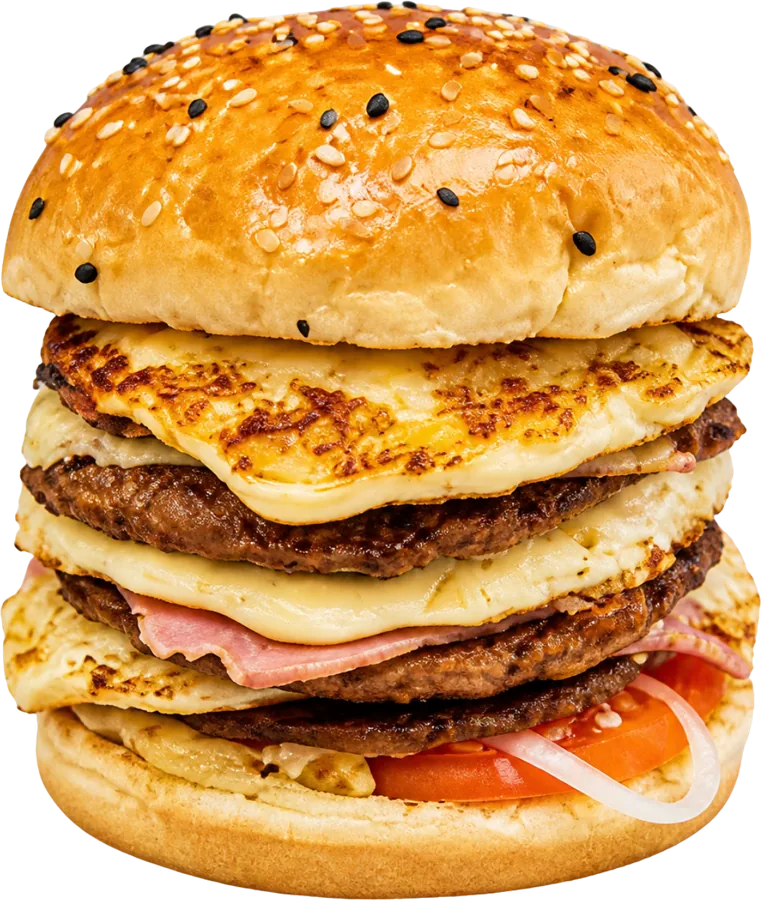
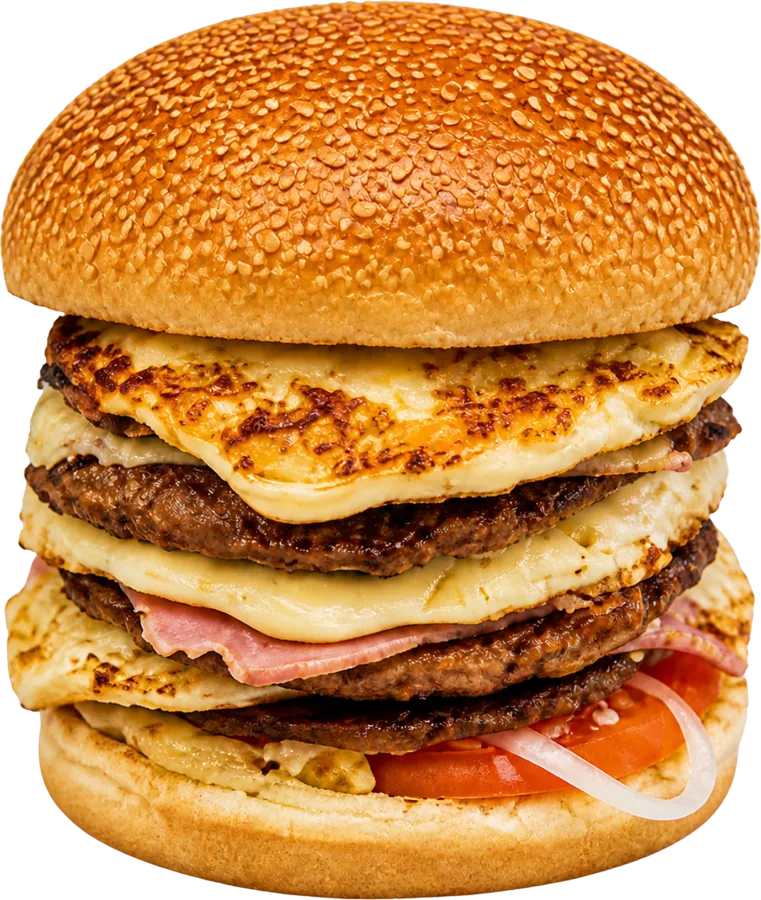
Caixa Top em "Como pedir" e X-Montanha com o pão novo de gergelim
- "Como pedir": a foto antiga do combo (pão que a Bel não usa mais) dá
  lugar à Caixa Top sem fundo, flutuando com sombra e brilho quente, com
  o adesivo "Canal oficial da Bel". Sai do carrossel, que volta a ter 5
  fotos. Arquivos lanche-4 removidos.
- X-Montanha refeito com o pão novo, coberto de gergelim, como pedido no
  feedback da cliente.

Claude-Session: https://claude.ai/code/session_01JFe72xvUDKBtHamWgCjFaN

diff --git a/src/components/OrderMain.tsx b/src/components/OrderMain.tsx
@@ -12,27 +12,28 @@ export function OrderMain() {
     <section id="pedir" aria-labelledby="pedir-titulo" data-spotlight className="py-16 sm:py-24">
       <div className="mx-auto grid max-w-6xl gap-12 px-4 lg:grid-cols-12 lg:items-center lg:gap-16">
         <div data-reveal className="relative mx-auto w-full max-w-sm lg:col-span-5 lg:max-w-none">
-          <div className="aspect-square overflow-hidden rounded-md">
-            <picture>
-              <source
-                srcSet="/images/lanche-4-400.webp 400w, /images/lanche-4-600.webp 600w, /images/lanche-4.webp 800w"
-                sizes="(min-width: 1024px) 440px, (min-width: 640px) 384px, calc(100vw - 32px)"
-                type="image/webp"
-              />
-              <img
-                src="/images/lanche-4.jpg"
-                srcSet="/images/lanche-4-400.jpg 400w, /images/lanche-4-600.jpg 600w, /images/lanche-4.jpg 800w"
-                sizes="(min-width: 1024px) 440px, (min-width: 640px) 384px, calc(100vw - 32px)"
-                alt="Combo na caixa: batata com cheddar e bacon, anéis de cebola e três lanches"
-                width={800}
-                height={800}
-                loading="lazy"
-                decoding="async"
-                className="size-full object-cover"
-              />
-            </picture>
-          </div>
-          <p className="absolute -bottom-4 left-4 rounded-md bg-mostarda px-3 pb-1 pt-1.5 font-display text-lg uppercase tracking-wider text-carvao">
+          {/* Caixa Top sem fundo, flutuando como os lanches do topo */}
+          <div
+            aria-hidden="true"
+            className="absolute inset-[8%] rounded-full bg-[radial-gradient(closest-side,rgb(244_183_64/0.22),transparent)]"
+          />
+          <picture>
+            <source
+              srcSet="/images/caixa-top-480.webp 480w, /images/caixa-top-640.webp 640w, /images/caixa-top.webp 900w"
+              sizes="(min-width: 1024px) 440px, (min-width: 640px) 384px, calc(100vw - 32px)"
+              type="image/webp"
+            />
+            <img
+              src="/images/caixa-top.png"
+              alt="Caixa Top: batata com cheddar e bacon, nuggets, molho e três hambúrgueres"
+              width={900}
+              height={484}
+              loading="lazy"
+              decoding="async"
+              className="relative h-auto w-full drop-shadow-[0_24px_30px_rgb(0_0_0/0.55)]"
+            />
+          </picture>
+          <p className="absolute -bottom-6 left-4 rounded-md bg-mostarda px-3 pb-1 pt-1.5 font-display text-lg uppercase tracking-wider text-carvao">
             Canal oficial da Bel
           </p>
         </div>

diff --git a/src/config.ts b/src/config.ts
@@ -45,7 +45,6 @@ export const heroSlides = [
   { file: 'mega30', width: 900, height: 671, alt: 'Mega Hot Dog de 30cm: dois cachorros-quentes com calabresa, ovo de codorna, azeitona, milho e ervilha' },
   { file: 'queijo-coalho', width: 900, height: 881, steam: true, alt: 'Hambúrguer com queijo coalho grelhado, bacon, cheddar e alface' },
   { file: 'combo-kids', width: 900, height: 823, alt: 'Combo Kids: hambúrguer, batata frita, refrigerante Guaracamp e bala Fini' },
-  { file: 'caixa-top', width: 900, height: 484, alt: 'Caixa Top: batata com cheddar e bacon, nuggets, molho e três hambúrgueres na caixa' },
   { file: 'polenguinho', width: 894, height: 900, steam: true, alt: 'Hambúrguer com bacon, calabresa, presunto, queijo, tomate, alface e batata palha' },
   { file: 'montanha', width: 761, height: 900, steam: true, alt: 'X-Montanha: três hambúrgueres com ovo, queijo coalho e presunto' },
 ]

diff --git a/README.md b/README.md
@@ -33,7 +33,7 @@ Coloque os arquivos em `public/images/` com estes nomes (enquanto não existirem
 | `logo.png` | Cabeçalho e rodapé (fundo transparente) | 400×400 |
 | `carrossel/{nome}.png` + `{nome}.webp`, `{nome}-640.webp`, `{nome}-480.webp` | Lanches sem fundo do carrossel do topo (lista em `heroSlides`) | 900px no lado maior, fundo transparente |
 | `og-image.jpg` | Prévia do link no WhatsApp/redes (og:image) | 1200×630 |
-| `lanche-4.jpg` + `lanche-4.webp` | Foto da seção "Como pedir" | 800×800 |
+| `caixa-top.png` + `caixa-top.webp`, `caixa-top-640.webp`, `caixa-top-480.webp` | Caixa Top sem fundo na seção "Como pedir" | 900px de largura, fundo transparente |
 
 Para trocar as fotos do carrossel, coloque em `public/images/carrossel/` o PNG sem fundo e as versões WebP de 900, 640 e 480px com o mesmo nome, e ajuste a lista `heroSlides` em `src/config.ts` (com largura e altura da versão de 900px). Use `steam: true` para mostrar vapor subindo do lanche.
 
